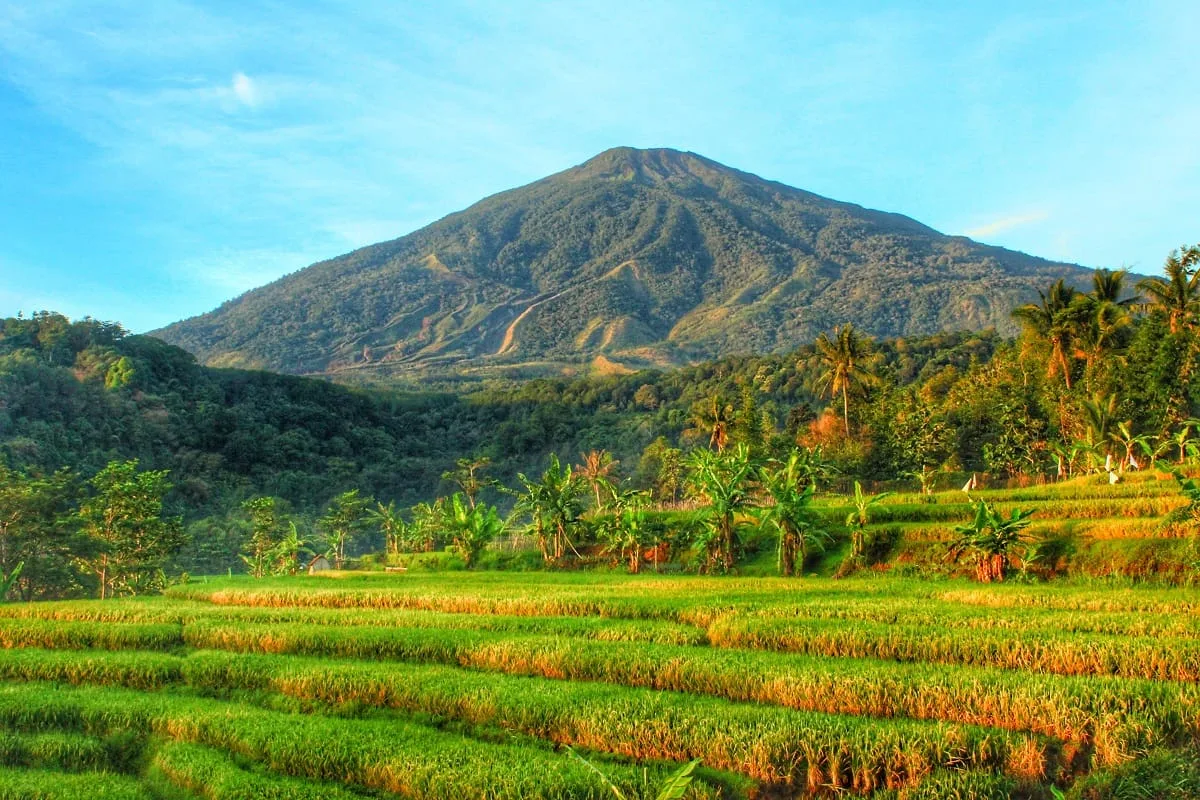
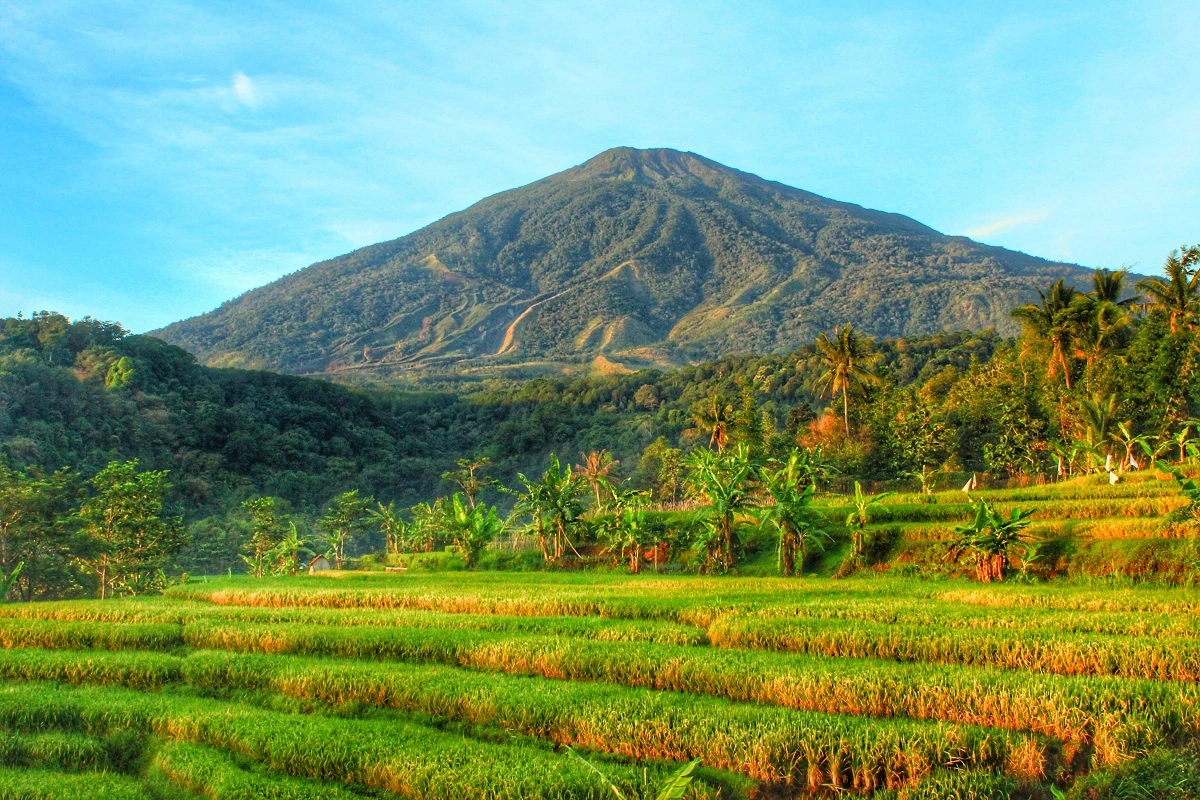
fix(insight): restore full HD resolution for Gunung Ciremai section below motion video

diff --git a/src/components/HomeInsightSection.tsx b/src/components/HomeInsightSection.tsx
@@ -7,7 +7,7 @@ const FEATURED_TOPICS = ["DAS Cisanggarung", "Flora Endemik", "Patroli Masyaraka
 
 const FEATURED = {
   href: insightHref(CIREMAI_ARTICLE.slug),
-  image: "/image-lomba/ciremai-insight.webp",
+  image: CIREMAI_ARTICLE.image.src,
   imageAlt: CIREMAI_ARTICLE.image.alt,
   title: CIREMAI_ARTICLE.title,
   summary:
